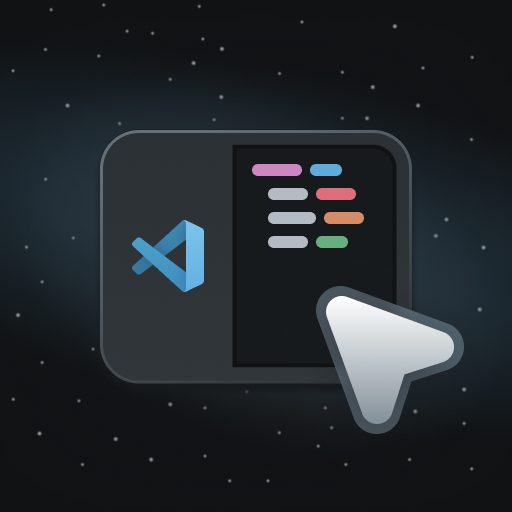
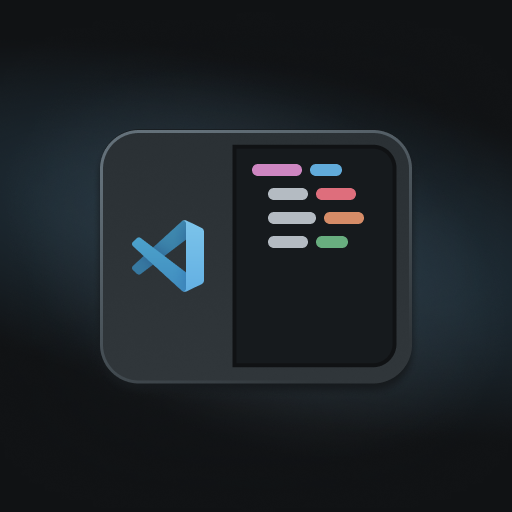
Update README

Changed region(s): [[0.5938, 0.5625, 0.9062, 0.875]]

diff --git a/README.md b/README.md
@@ -1,7 +1,11 @@
 <div align="center">
-  <img src="assets/icon.png" alt="Zenith Icon" width="128">
+  <img src="assets/icon-transparent.png" alt="Zenith Icon" width="128">
   <h1>Zenith Theme for VS Code</h1>
-  <p><strong>A refined, distraction-free theme with cohesive colors and complete UI coverage.</strong></p>
+  <p>
+    <strong>A refined dark theme with cohesive colors and complete UI coverage.</strong>
+    <br>
+    Check out the ⭐ light theme ⭐ here: <a href="https://marketplace.visualstudio.com/items?itemName=britown.vscode-theme-meridian">Meridian Theme for VS Code</a>.
+  </p>
   <br>
 </div>
 
@@ -70,7 +74,9 @@ All of the theme-related and layout tweaks I use can be found in [suggested-sett
 
 ```json
 "workbench.colorCustomizations": {
+  "[Zenith]": {
     "tab.activeBorderTop": "#61abda"
+  }
 },
 ```
 
@@ -78,8 +84,10 @@ All of the theme-related and layout tweaks I use can be found in [suggested-sett
 
 ```json
 "workbench.colorCustomizations": {
+  "[Zenith]": {
     "editorBracketMatch.border": "#00000000",
     "editorBracketMatch.background": "#ccebff28" // Highlight their background color instead
+  }
 },
 ```
 
@@ -87,23 +95,25 @@ All of the theme-related and layout tweaks I use can be found in [suggested-sett
 
 ```json
 "editor.tokenColorCustomizations": {
-  "textMateRules": [
-    {
-      "scope": [
-        "punctuation.definition.string",
-        "punctuation.definition.raw"
-      ],
-      "settings": {
-        "foreground": "#64b280"
+  "[Zenith]": {
+    "textMateRules": [
+      {
+        "scope": [
+          "punctuation.definition.string",
+          "punctuation.definition.raw"
+        ],
+        "settings": {
+          "foreground": "#64b280"
+        }
       }
-    }
-  ]
+    ]
+  }
 },
 ```
 
 ## Zenith theme for other apps
 
-See my [dotfiles repo](https://github.com/bkuzmanoski/dotfiles) for matching themes for **bat**, **btop**, **eza**, **Ghostty**, **micro**, and **zsh-syntax-highlighting**.
+Check out the matching [Raycast theme](https://themes.ray.so?version=1&name=Zenith&author=Brian%20Kuzmanoski&authorUsername=britown&colors=%23161A1D,%23161A1D,%23B4BBC2,%23B4BBC2,%2361ABDA,%23DE6E7C,%23D68C67,%23D6B867,%2364B280,%2361ABDA,%239D86CE,%23CF86C1&appearance=dark&addToRaycast) and visit my [dotfiles repo](https://github.com/bkuzmanoski/dotfiles) for ports of this theme for **bat**, **btop**, **eza**, **Ghostty**, **micro**, and **zsh-syntax-highlighting**.
 
 ## Acknowledgments
 
